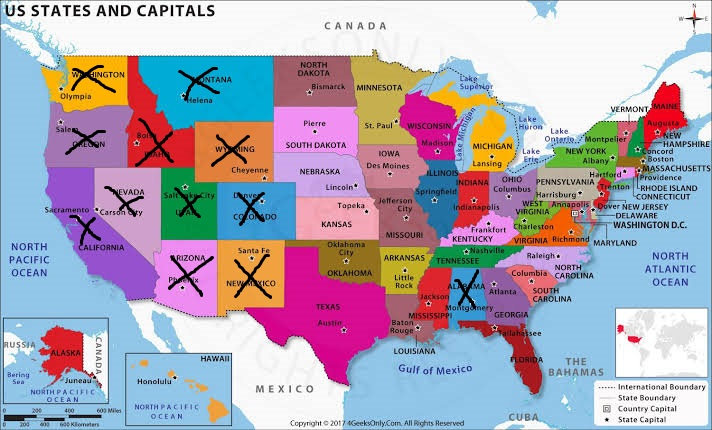
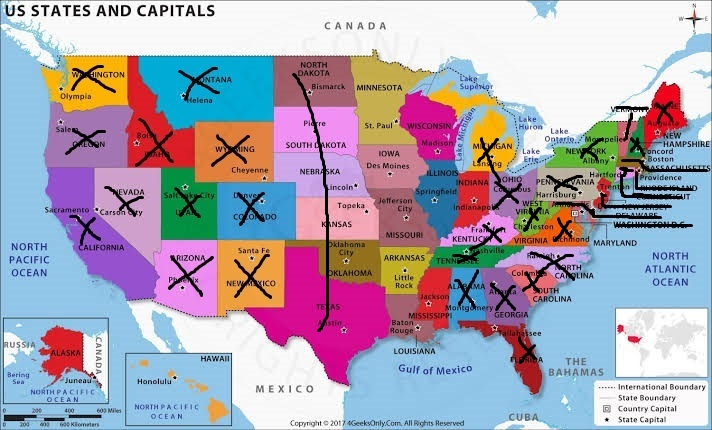
Update database and remove comments from graph.js

diff --git a/backend/src/database/states.js b/backend/src/database/states.js
@@ -1,16 +1,5 @@
 exports.cities = [
     {
-        state: 'AL',
-        name: 'Montgomery',
-        zipcode: '36101',
-        edges: [
-            '30301',
-            '39201',
-            '37201',
-            '32301'
-        ]
-    },
-    {
         state: 'WA',
         name: 'Olympia',
         zipcode: '98501',
@@ -137,6 +126,246 @@ exports.cities = [
             '85001',
             //'73101',
             //'73301'
+        ]
+    },
+    {
+        state: 'ME',
+        name: 'Augusta',
+        zipcode: '04330',
+        edges: [
+            '03301'
+        ]
+    },
+    {
+        state: 'NH',
+        name: 'Concord',
+        zipcode: '03301',
+        edges: [
+            '04330',
+            '02108',
+            '05601'
+        ]
+    },
+    {
+        state: 'MA',
+        name: 'Boston',
+        zipcode: '02108',
+        edges: [
+            '05601',
+            '03301',
+            '12201',
+            '02901',
+            '06101'
+        ]
+    },
+    {
+        state: 'RI',
+        name: 'Providence',
+        zipcode: '02901',
+        edges: [
+            '02108',
+            '06101'
+        ]
+    },
+    {
+        state: 'CT',
+        name: 'Hartford',
+        zipcode: '06101',
+        edges: [
+            '02901',
+            '02108',
+            '12201'
+        ]
+    },
+    {
+        state: 'VT',
+        name: 'Montpelier',
+        zipcode: '05601',
+        edges: [
+            '02108',
+            '03301',
+            '12201'
+        ]
+    },
+    {
+        state: 'NY',
+        name: 'Albany',
+        zipcode: '12201',
+        edges: [
+            '05601',
+            '02108',
+            '06101',
+            '08601',
+            '17101' // Harrisburg - Pennsylvania - PA
+        ]
+    },
+    {
+        state: 'NJ',
+        name: 'Trenton',
+        zipcode: '08601',
+        edges: [
+            '12201',
+            '17101',
+            '19901' // Dover - Delaware - DE
+        ]
+    },
+    {
+        state: 'PA',
+        name: 'Harrisburg',
+        zipcode: '17101',
+        edges: [
+            '12201',
+            '08601',
+            '19901', // Dover - Delaware - DE
+            '21401', // Annapolis - Maryland - MD
+            '43085', // Columbus - Ohio - OH
+            '25301' // Charleston - West Virginia - WV
+        ]
+    },
+    {
+        state: 'DE',
+        name: 'Dover',
+        zipcode: '19901',
+        edges: [
+            '17101', // Harrisburg - Pennsylvanya - PA
+            '08601', // Trenton - New Jersey - NJ
+            '21401' // Annapolis - Maryland - MD
+        ]
+    },
+    {
+        state: 'MD',
+        name: 'Annapolis',
+        zipcode: '21401',
+        edges: [
+            '19901', // Dover - Delaware - DE
+            '17101', // Harrisburg - Pennsylvanya - PA
+            '25301', // Charleston - West Virginia - WV
+            '23218' // Richmond - Virginia - VA
+        ]
+    },
+    {
+        state: 'VA',
+        name: 'Richmond',
+        zipcode: '23218',
+        edges: [
+            '21401', // Annapolis - Maryland - MD
+            '25301', // Charleston - West Virginia - WV
+            '27601', // Raleigh - North Carolina - NC
+            '40601', // Frankfort - Kentuky - KY
+            '37201' // Nashville - Tennesse - TN
+
+        ]
+    },
+    {
+        state: 'WV',
+        name: 'Charleston',
+        zipcode: '25301',
+        edges: [
+            '17101', // Harrisburg - Pennsylvanya - PA
+            '21401', // Annapolis - Maryland - MD
+            '23218', // Richmond - Virginia - VA
+            '43085', // Columbus - Ohio - OH
+            '40601', // Frankfort - Kentuky - KY
+            '37201' // Nashville - Tennesse - TN
+        ]
+    },
+    {
+        state: 'NC',
+        name: 'Raleigh',
+        zipcode: '27601',
+        edges: [
+            '23218', // Richmond - Virginia - VA
+            '37201', // Nashville - Tennesse - TN
+            '29201', // Columbia - South Carolina - SC
+            '30301' // Atlanta - Georgia - GA
+        ]
+    },
+    {
+        state: 'SC',
+        name: 'Columbia',
+        zipcode: '29201',
+        edges: [
+            '27601', // Raleigh - North Carolina - NC
+            '30301' // Atlanta - Georgia - GA
+        ]
+    },
+    {
+        state: 'GA',
+        name: 'Atlanta',
+        zipcode: '30301',
+        edges: [
+            '36101', // Montgomery - Alabama - AL
+            '32301', // Tallahassee - Florida - FL
+            '29201' // Columbia - South Carolina - SC
+        ]
+    },
+    {
+        state: 'FL',
+        name: 'Tallahassee',
+        zipcode: '32301',
+        edges: [
+            '36101', // Montgomery - Alabama - AL
+            '30301' // Atlanta - Georgia - GA
+        ]
+    },
+    {
+        state: 'TN',
+        name: 'Nashville',
+        zipcode: '37201',
+        edges: [
+            '27601', // Raleigh - North Carolina - NC
+            '30301', // Atlanta - Georgia - GA
+            '36101', // Montgomery - Alabama - AL
+            '39201', // Jackson - Mississipi - MS
+            '72201', // Little Rock - Arkansas - AR
+            '65101', // Jefferson City - Missouri - MO
+            '40601' // Frankfort - Kentuky - KY
+        ]
+    },
+    {
+        state: 'KY',
+        name: 'Frankfort',
+        zipcode: '40601',
+        edges: [
+            '43085', // Columbus - Ohio - OH
+            '25301', // Charleston - West Virginia - WV
+            '23218', // Richmond - Virginia - VA
+            '37201', // Nashville - Tennesse - TN
+            '65101', // Jefferson City - Missouri - MO
+            '62701', // Springfield - Illinoi - IL
+            '46201' // Indianapolis - Indiana - IN
+        ]
+    },
+    {
+        state: 'OH',
+        name: 'Columbus',
+        zipcode: '43085',
+        edges: [
+            '17101', // Harrisburg - Pennsylvania - PA
+            '25301', // Charleston - West Virginia - WV
+            '40601', // Frankfort - Kentuky - KY
+            '46201', // Indianapolis - Indiana - IN
+            '48901' // Lansing - Michigan - MI
+        ]
+    },
+    {
+        state: 'MI',
+        name: 'Lansing',
+        zipcode: '48901',
+        edges: [
+            '43085', // Columbus - Ohio - OH
+            '46201' // Indianapolis - Indiana - IN
+        ]
+    },
+{
+        state: 'AL',
+        name: 'Montgomery',
+        zipcode: '36101',
+        edges: [
+            '30301', // Atlanta - Georgia - GA
+            '37201', // Nashville - Tennesse - TN
+            '32301', // Tallahassee - Florida - FL
+            '39201', // Jackson - Mississipi - MS
         ]
     },
     // {

diff --git a/backend/src/graph.js b/backend/src/graph.js
@@ -48,23 +48,20 @@ function findShortestPath(startNode, endNode) {
   init();
 
   let distances = {};
-  // distances[endNode] = "Infinity";
   let startPosition = cities.findIndex(p => p.zipcode == startNode);
   distances = Object.assign(distances, cities[startPosition]).dist;
   distances[endNode] = "Infinity";
-  // console.log(distances);
+
 
   let parents = {}
   parents[endNode] = null;
   for (i = 0; i < cities[startPosition].edges.length; i++){
     child = cities[startPosition].edges[i]
-    // console.log(cities[startPosition].edges);
     parents[child] = cities[startPosition].zipcode;
   }
 
   visited = [];
   let node = shortestDistanceNode(distances, visited);
-  // console.log(node);
 
   while(node){
     let distance = distances[node];
@@ -76,22 +73,16 @@ function findShortestPath(startNode, endNode) {
     }
     
     for (childPos in childrenZipcodes){
-      // console.log(childPos);
       zip = childrenZipcodes[childPos];
-      // console.log(childrenZipcodes);
 
       if(zip === startNode){
         continue;
       }else{
         let newdistance = distance + childrenDist[childPos];
-        // console.log(childrenDist[childPos]);
 
         if(!distances[zip] || newdistance < distances[childrenZipcodes[childPos]]) {
           distances[childrenZipcodes[childPos]] = newdistance;
-          // console.log(childPos);
-          // console.log(childrenZipcodes[childPos]);
-          // console.log(childrenDist[childPos]);
-          // console.log(newdistance);
+
           parents[zip] = node;
         }
       }
@@ -99,11 +90,9 @@ function findShortestPath(startNode, endNode) {
 
     visited.push(node);
     node = shortestDistanceNode(distances,visited);
-    // console.log(node);
 
   }
-  // console.log(distances);
-  // console.log(getNodeDistance('98501','97301'))
+
   let shortestPath = [endNode];
   let parent = parents[endNode];
   let shortestPathNodes = [];
@@ -111,16 +100,9 @@ function findShortestPath(startNode, endNode) {
 
   aux = {'distFromParent': null}
   aux.distFromParent = distances[endNode] - getNodeDistance(parents[endNode],startNode);
-  // console.log(dist);
 
   nodeInfo = Object.assign(nodeInfo,aux);
-  // console.log(nodeInfo);
   shortestPathNodes.push(nodeInfo); 
-  // console.log(distances);
-  // console.log(parents);
-  // console.log(shortestPath);
-  // console.log(shortestPathNodes);
-  // console.log(parents[endNode]);
 
   while(parent) {
     shortestPath.push(parent);
@@ -144,23 +126,9 @@ function findShortestPath(startNode, endNode) {
   }
 
   return result;
-  // console.log(distances[endNode]);
-  // console.log(shortestPath);
-
-  // console.log(getNodeDistance(98501,83701))
-  // console.log(getNodeDistance(83701,84101))
-  // console.log(getNodeDistance(84101,80201))
-
 
 }
 
 module.exports = {
   findShortestPath
 }
-
-// var testOrigin = cities.findIndex(p => p.zipcode == "98501");
-// var testDest = cities.findIndex(p => p.zipcode == "87501");
-// init();
-// console.log(cities[0].dist['30301']);
-// out = findShortestPath('98501', '87501');
-// console.log(out);
